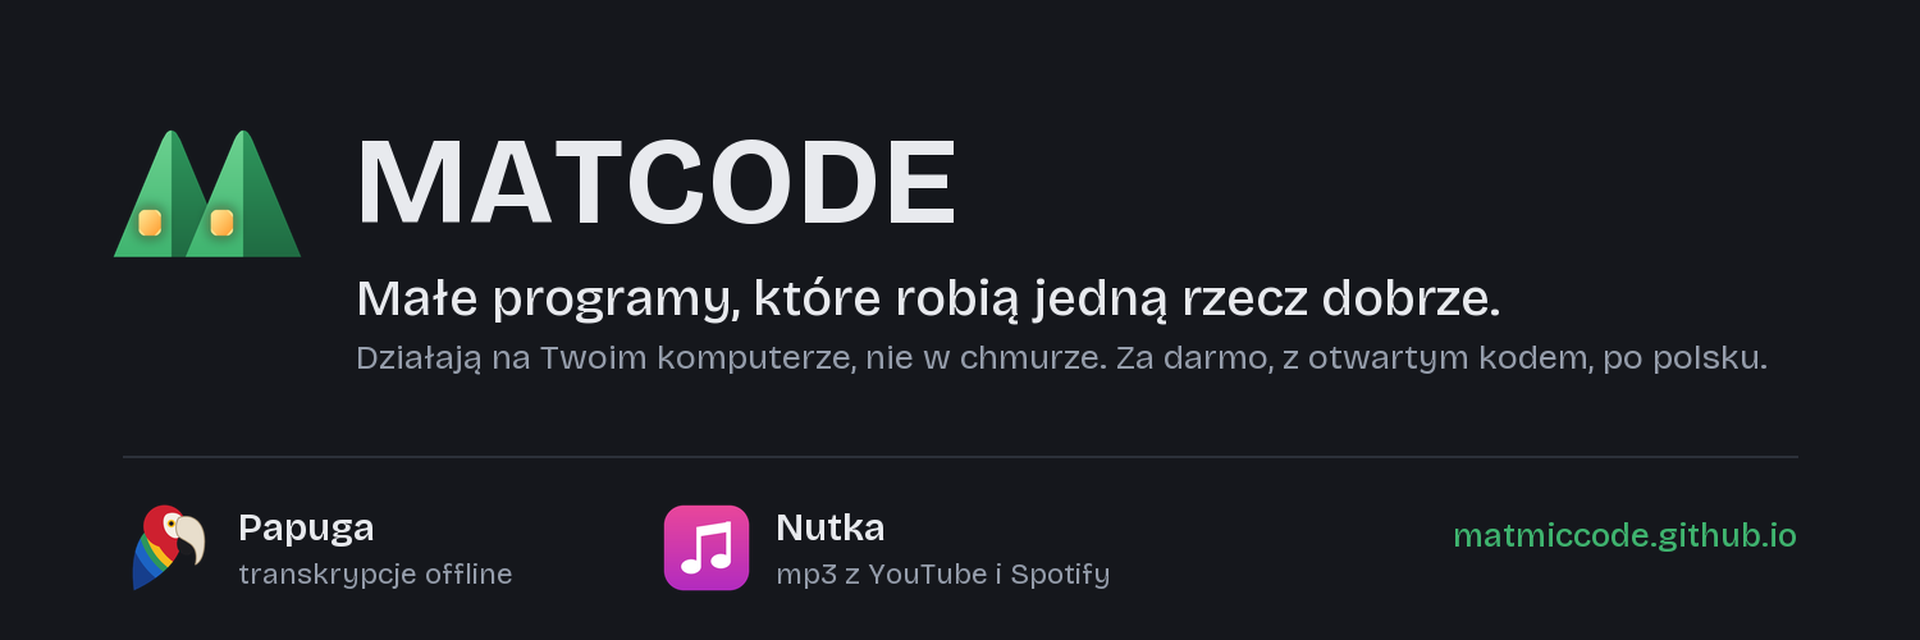
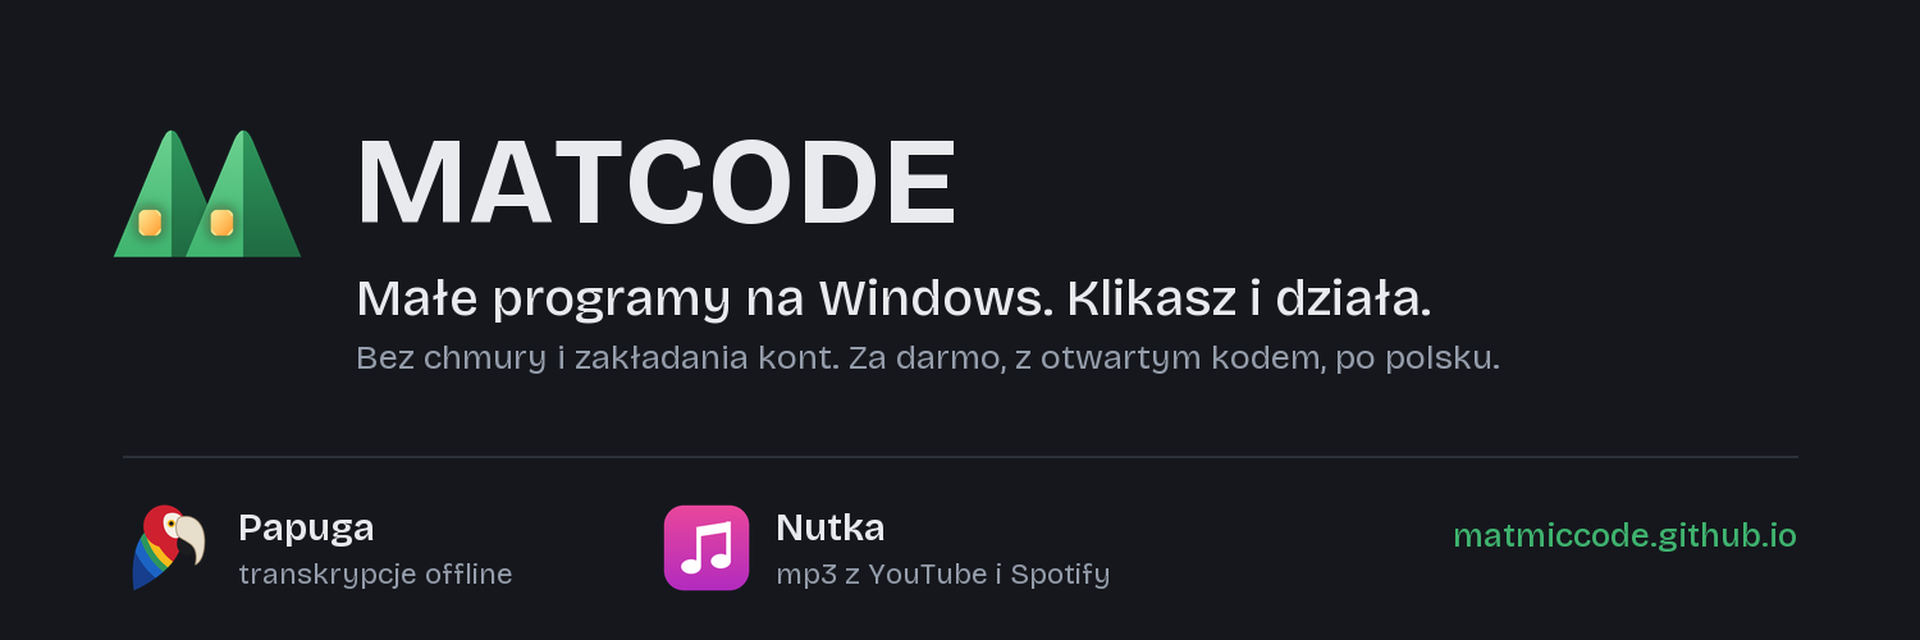
Nowe hasło marki: „Małe programy na Windows. Klikasz i działa. Bez chmury i zakładania kont.”
Hub (h1, lead, meta), obie okładki w generuj.py (przegenerowane) i teksty
na buycoffee/GitHub w marka/teksty-buycoffee.md, teraz z wersją angielską
i bez „celu zbiórki”.

Changed region(s): [[0.1875, 0.5312, 0.9375, 0.5938], [0.375, 0.4375, 0.7812, 0.5]]

diff --git a/index.html b/index.html
@@ -4,7 +4,7 @@
 <meta charset="utf-8">
 <meta name="viewport" content="width=device-width, initial-scale=1">
 <title>MATCODE</title>
-<meta name="description" content="Małe programy, które robią jedną rzecz dobrze. Działają na Twoim komputerze, nie w chmurze. Za darmo, z otwartym kodem.">
+<meta name="description" content="Małe programy na Windows. Klikasz i działa. Bez chmury i zakładania kont. Za darmo, z otwartym kodem.">
 <link rel="icon" href="marka/znak-kwadrat.svg" type="image/svg+xml">
 <link rel="icon" href="img/matcode-256.png" type="image/png" sizes="256x256">
 <link rel="preconnect" href="https://fonts.googleapis.com">
@@ -35,8 +35,8 @@
 <main>
 
 <section class="wrap hero">
-  <h1>Małe programy, które robią jedną rzecz dobrze.</h1>
-  <p class="lead">Działają na Twoim komputerze, nie w&nbsp;chmurze. Za darmo, z&nbsp;otwartym kodem, po polsku.</p>
+  <h1>Małe programy na Windows. Klikasz i&nbsp;działa.</h1>
+  <p class="lead">Bez chmury i&nbsp;zakładania kont. Za darmo, z&nbsp;otwartym kodem, po polsku.</p>
 </section>
 
 <section id="programy">

diff --git a/marka/generuj.py b/marka/generuj.py
@@ -138,8 +138,8 @@ def okladka():
     z = znak(180, None)
     im.alpha_composite(z, (72, 60))
     d.text((276, 84), "MATCODE", font=kroj(96, "Bold"), fill=TEKST)
-    d.text((278, 208), "Małe programy, które robią jedną rzecz dobrze.", font=kroj(40, "Medium"), fill=TEKST)
-    d.text((278, 262), "Działają na Twoim komputerze, nie w chmurze. Za darmo, z otwartym kodem, po polsku.",
+    d.text((278, 208), "Małe programy na Windows. Klikasz i działa.", font=kroj(40, "Medium"), fill=TEKST)
+    d.text((278, 262), "Bez chmury i zakładania kont. Za darmo, z otwartym kodem, po polsku.",
            font=kroj(27, "Regular"), fill=SZARY)
     d.line((96, 356, W - 96, 356), fill=LINIA, width=2)
     x = 96
@@ -164,8 +164,8 @@ def okladka_4x1():
     d = ImageDraw.Draw(im)
     im.alpha_composite(znak(200, None), (110, 150))
     d.text((350, 146), "MATCODE", font=kroj(104, "Bold"), fill=TEKST)
-    d.text((354, 282), "Małe programy, które robią jedną rzecz dobrze.", font=kroj(40, "Medium"), fill=TEKST)
-    d.text((354, 338), "Działają na Twoim komputerze, nie w chmurze. Za darmo, z otwartym kodem, po polsku.",
+    d.text((354, 282), "Małe programy na Windows. Klikasz i działa.", font=kroj(40, "Medium"), fill=TEKST)
+    d.text((354, 338), "Bez chmury i zakładania kont. Za darmo, z otwartym kodem, po polsku.",
            font=kroj(27, "Regular"), fill=SZARY)
     d.line((1500, 160, 1500, 340), fill=LINIA, width=2)
     x, y = 1560, 160

diff --git a/marka/teksty-buycoffee.md b/marka/teksty-buycoffee.md
@@ -1,37 +1,56 @@
-# Teksty na profil buycoffee.to/matcode
+# Teksty marki MATCODE (buycoffee.to/matcode, GitHub, okładki)
 
-Ton jak na stronach MATCODE: krótko, po polsku, zdaniową wielkością liter, bez emoji, bez proszenia.
-Kawa to podziękowanie, nie opłata. Programy są i zostaną darmowe.
+Ton: krótko, lekko, po ludzku, bez emoji w treści (poza podziękowaniem), bez proszenia i bez „celów zbiórki”.
+Kawa to zwykłe „dzięki, przydało się”. Programy są i zostaną darmowe. Wersje angielskie idą pod polskimi.
 
 ## Nazwa wyświetlana
 
 MATCODE
 
-## Krótki opis (jedno zdanie pod nazwą)
+## Hasło (hub `index.html`, okładki w `generuj.py`, bio GitHub)
 
-Małe darmowe programy na Windows: Papuga i Nutka. Działają u Ciebie, nie w chmurze. Otwarty kod.
+PL: Małe programy na Windows. Klikasz i działa. Bez chmury i zakładania kont.
+EN: Small Windows apps. Click and it works. No cloud, no sign-up.
 
-## O mnie
+Okładki: wiersz 1 „Małe programy na Windows. Klikasz i działa.”, wiersz 2 „Bez chmury i zakładania kont. Za darmo, z otwartym kodem, po polsku.”
 
-Robię małe programy, które robią jedną rzecz dobrze. Papuga zamienia nagrania w tekst i rozpoznaje, kto mówi,
-bez wysyłania czegokolwiek do internetu. Nutka zapisuje muzykę z YouTube i Spotify jako mp3 z okładką i opisem utworu.
-Oba są darmowe, po polsku i z otwartym kodem. Nie mają konta, reklam ani telemetrii i takie zostaną.
+## Bio GitHub (137 znaków, limit 160)
 
-Kawa to podziękowanie, nie opłata. Idzie na to, co w tej robocie kosztuje: certyfikat podpisu dla Windows,
-żeby instalator przestał straszyć ostrzeżeniem, i czas na kolejne poprawki, gdy YouTube znów coś zmieni.
+Małe programy na Windows. Klikasz i działa. Bez chmury i zakładania kont. · Small Windows apps. Click and it works. No cloud, no sign-up.
 
-Wszystkie programy w jednym miejscu: matmiccode.github.io
+## Opis na buycoffee („Dlaczego warto Cię wesprzeć?”, limit 2000 znaków)
 
-## Cel (jeśli panel ma pole „cel”)
+Cześć, tu MATCODE. Robię małe darmowe programy na Windows, bo zmęczyło mnie,
+że do każdej drobnej rzeczy trzeba dziś zakładać konto i płacić abonament.
 
-Nazwa: Certyfikat podpisu kodu dla Windows
-Opis: Z podpisanym instalatorem Windows przestanie pokazywać „System Windows ochronił ten komputer” przy każdej instalacji.
-Kwota: do ustalenia po sprawdzeniu aktualnej ceny certyfikatu (zwykle kilkaset do 1500 zł rocznie).
+Papuga spisuje nagrania i wie, kto mówi, a nagrania nigdzie z Twojego komputera nie wychodzą.
+Nutka robi z YouTube i Spotify porządne mp3 z okładką i tagami, także całe playlisty.
+Oba są za darmo, po polsku, z otwartym kodem. I takie zostaną.
+
+Kawa to zwykłe „dzięki, przydało się”. Programy nic na niej nie zyskują,
+za to ja mam paliwo na kolejną poprawkę, gdy YouTube znów coś zmieni.
+
+Pomysł albo błąd: github.com/matmiccode. Wszystkie programy: matmiccode.github.io
+
+—
+
+Hi, MATCODE here. I make small free Windows apps, because I got tired of needing
+an account and a subscription for every little thing.
+
+Papuga transcribes recordings and knows who said what. Your recordings never leave your computer.
+Nutka turns YouTube and Spotify into proper mp3s with cover art and tags, whole playlists too.
+Both are free and open source, and they'll stay that way. The interface is Polish for now,
+English is on the way.
+
+A coffee is a simple "thanks, that helped". The apps gain nothing from it,
+but I get fuel for the next fix when YouTube changes something again.
+
+Ideas or bugs: github.com/matmiccode. All apps: matmiccode.github.io
 
 ## Podziękowanie po wpłacie
 
-Dziękuję! Twoja kawa idzie na rozwój programów MATCODE: bez reklam, bez kont, z otwartym kodem.
-Masz pomysł albo coś nie działa? Napisz na github.com/matmiccode. Miłego dnia!
+PL: Grazie! Kawa dotarła! Myślę o Tobie ciepło :)
+EN: Grazie! The coffee has arrived! Warm thoughts your way :)
 
 ## Sugerowane kwoty
 
@@ -48,7 +67,9 @@ Masz pomysł albo coś nie działa? Napisz na github.com/matmiccode. Miłego dni
   Ten sam plik na GitHub (Settings → Public profile → Profile picture) i na buycoffee.to.
   Kadrowanie na buycoffee (vue-advanced-cropper) nie obejmie kołem całego kwadratu – obraz da się oddalić kółkiem myszy tylko do
   ok. 86 % – więc tam wgrany został ten sam znak zmniejszony do 870 px na grafitowym tle 1024 px (plik tymczasowy, bez repo).
-- Okładka: `matcode-okladka-1500x500.png` (3:1) albo `-1920x640`. **buycoffee.to kadruje tło profilu do 4:1** i na szerokim ekranie
-  pokazuje tylko środkowy pas ok. 6:1 (awatar nachodzi na lewy dolny róg) – tam poszła `matcode-okladka-2000x500.png`
-  (`okladka_4x1()` w `generuj.py`: treść w pasie y 85..415, lewy dolny róg pusty).
+- Okładka: `matcode-okladka-1500x500.png` (3:1, baner README profilu = `matmiccode/img/matcode-okladka.png`) albo `-1920x640`.
+  **buycoffee.to kadruje tło profilu do 4:1** i na szerokim ekranie pokazuje tylko środkowy pas ok. 6:1 (awatar nachodzi na lewy dolny róg) –
+  tam idzie `matcode-okladka-2000x500.png` (`okladka_4x1()` w `generuj.py`: treść w pasie y 85..415, lewy dolny róg pusty).
+  Po zmianie hasła: `generuj.py` (Pillow z `build\venv` Nutki), skopiować 1500x500 do profilu, wgrać 2000x500 na buycoffee
+  (kadrowanie → „Zapisz” w oknie → „Zapisz” pod sekcją, dopiero to zapisuje).
 - Ikony programów zostają własne (Papuga, Nutka); znak „Łąka” oznacza autora i katalog.
